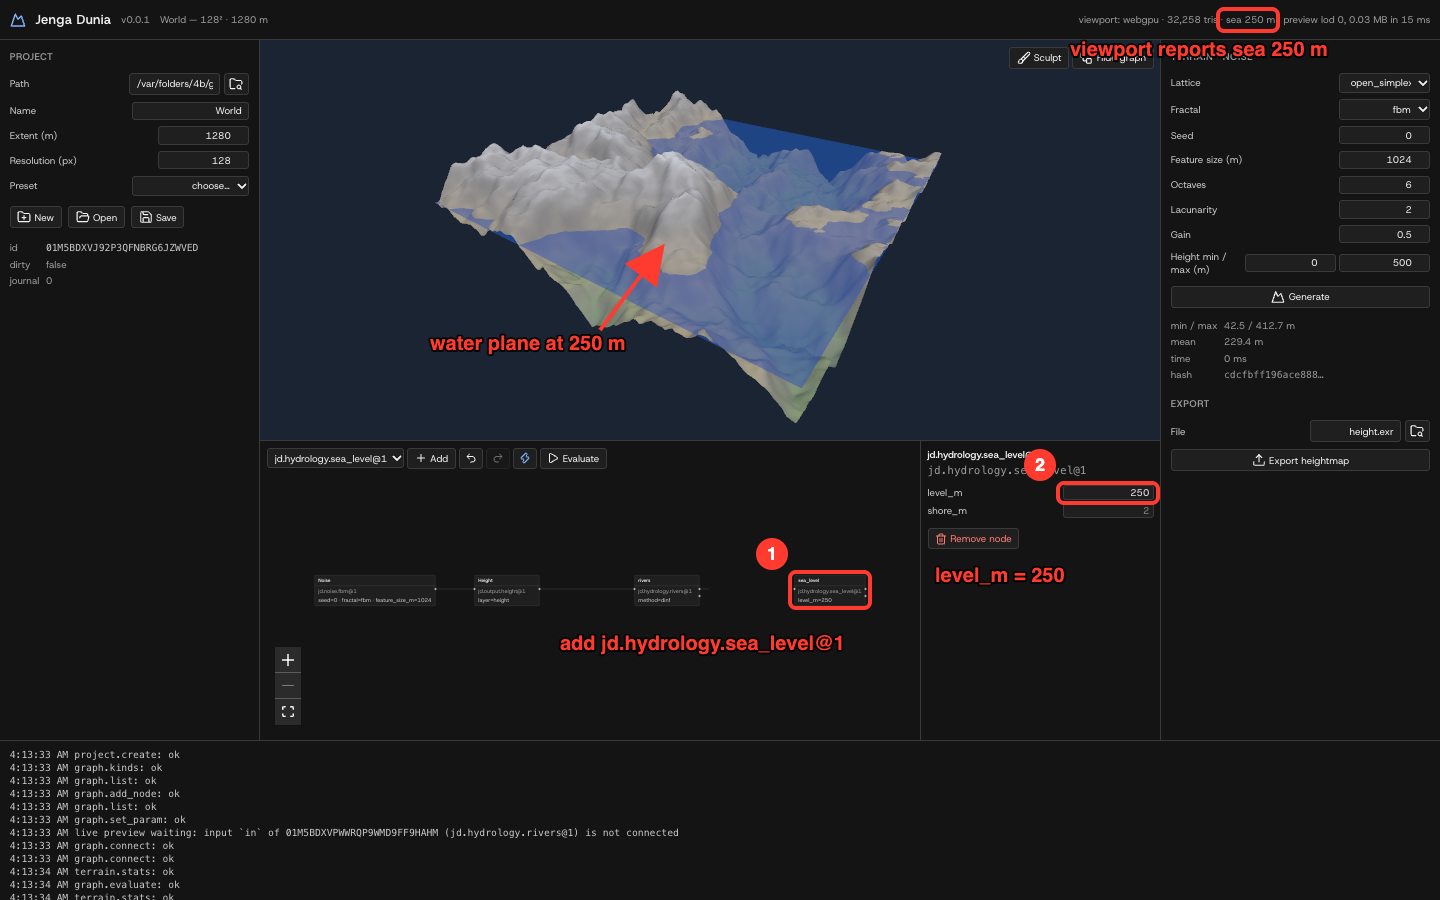
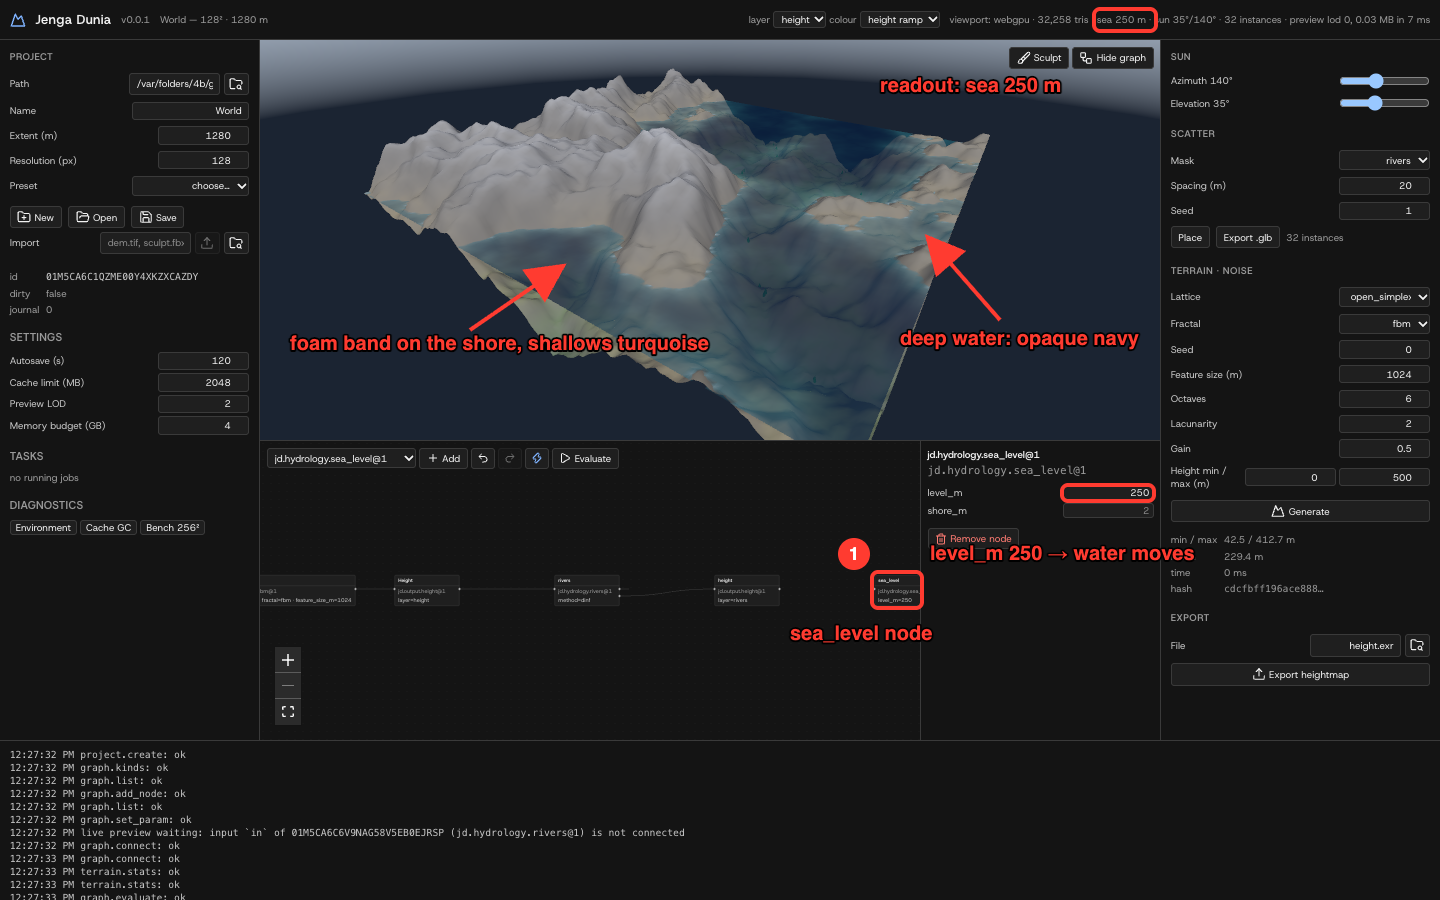
feat(desktop): depth-shaded sea with shoreline foam
- buildSeaGeometry: a flat grid at sea level whose RGBA vertex colours follow
  the depth of the terrain below — foam band within ~1 % of the height range of
  the shore, turquoise shallows darkening to opaque navy (e-fold 12 % of range),
  alpha 0 over land. MeshStandardMaterial with vertex colours, no custom shader.
- Vitest sea.test.ts; hydrology e2e zooms back out before the sea capture;
  desktop guide paragraph and capture updated.

diff --git a/apps/desktop/src/viewport/TerrainView.tsx b/apps/desktop/src/viewport/TerrainView.tsx
@@ -128,6 +128,50 @@ export function buildTerrainGeometry(p: Preview, extent: [number, number], overl
   return geo;
 }
 
+/** Water surface at `seaM`: a flat grid whose vertex colour and alpha follow the depth of the terrain
+ *  below it — turquoise and translucent in the shallows, navy and opaque out deep, a pale foam band
+ *  where the depth is within `foamM` of the shore, fully transparent over land. */
+export function buildSeaGeometry(p: Preview, extent: [number, number], seaM: number): THREE.BufferGeometry {
+  const { width, height, min, max, data } = p;
+  const geo = new THREE.PlaneGeometry(extent[0], extent[1], width - 1, height - 1);
+  geo.rotateX(-Math.PI / 2);
+  const pos = geo.attributes.position as THREE.BufferAttribute;
+  const colors = new Float32Array(pos.count * 4);
+  const range = max - min || 1;
+  const efold = Math.max(1, range * 0.12); // depth at which the water has gone ~63 % of the way to deep
+  const foamM = Math.max(0.5, range * 0.01);
+  const shallow = new THREE.Color(0x4fb8c8);
+  const deep = new THREE.Color(0x0e2f5c);
+  const foam = new THREE.Color(0xdff3f5);
+  const c = new THREE.Color();
+  for (let j = 0; j < height; j++) {
+    for (let i = 0; i < width; i++) {
+      const vi = j * width + i;
+      const q = data[(height - 1 - j) * width + i] ?? 0;
+      const depth = seaM - (min + (q / 65535) * range);
+      let alpha = 0;
+      if (depth > 0) {
+        const t = 1 - Math.exp(-depth / efold);
+        c.copy(shallow).lerp(deep, t);
+        alpha = 0.45 + 0.4 * t;
+        if (depth < foamM) {
+          const f = 1 - depth / foamM;
+          c.lerp(foam, f);
+          alpha = Math.max(alpha, 0.5 + 0.45 * f);
+        }
+      } else {
+        c.copy(shallow);
+      }
+      colors[vi * 4] = c.r;
+      colors[vi * 4 + 1] = c.g;
+      colors[vi * 4 + 2] = c.b;
+      colors[vi * 4 + 3] = alpha;
+    }
+  }
+  geo.setAttribute("color", new THREE.BufferAttribute(colors, 4));
+  return geo;
+}
+
 interface SceneState {
   renderer: WebGPURenderer;
   scene: THREE.Scene;
@@ -138,7 +182,7 @@ interface SceneState {
   frame: number;
   backend: ViewportInfo["backend"];
   triangles: number;
-  sea: THREE.Mesh<THREE.PlaneGeometry, THREE.MeshStandardMaterial> | null;
+  sea: THREE.Mesh<THREE.BufferGeometry, THREE.MeshStandardMaterial> | null;
   sun: THREE.DirectionalLight;
   hemi: THREE.HemisphereLight;
   /** Gradient sky dome (vertex colours, inside faces). */
@@ -412,7 +456,8 @@ export default function TerrainView({ preview, extentM, onInfo, sculpt, seaLevel
     onInfo?.(infoOf(s));
   }, [sun?.azimuthDeg, sun?.elevationDeg, onInfo]);
 
-  // Sea plane: follows the graph's sea-level node; a flat translucent quad over the whole world.
+  // Sea: follows the graph's sea-level node; a flat surface whose colour and opacity follow the
+  // depth of the terrain under it (shoreline foam, translucent shallows, opaque deep water).
   useEffect(() => {
     const s = sceneRef.current;
     if (!s) return;
@@ -423,9 +468,8 @@ export default function TerrainView({ preview, extentM, onInfo, sculpt, seaLevel
       s.sea = null;
     }
     if (seaLevelM !== null && extentM && preview) {
-      const geo = new THREE.PlaneGeometry(extentM[0], extentM[1]);
-      geo.rotateX(-Math.PI / 2);
-      const mat = new THREE.MeshStandardMaterial({ color: 0x2f6fd0, transparent: true, opacity: 0.6, roughness: 0.25, metalness: 0.1 });
+      const geo = buildSeaGeometry(preview, extentM, seaLevelM);
+      const mat = new THREE.MeshStandardMaterial({ vertexColors: true, transparent: true, roughness: 0.2, metalness: 0.05, depthWrite: false });
       s.sea = new THREE.Mesh(geo, mat);
       s.sea.position.y = seaLevelM;
       s.scene.add(s.sea);

diff --git a/apps/desktop/src/viewport/sea.test.ts b/apps/desktop/src/viewport/sea.test.ts
@@ -1,0 +1,33 @@
+import { describe, expect, it } from "vitest";
+import { buildSeaGeometry } from "./TerrainView";
+import type { Preview } from "../lib/api";
+
+// A 4×4 preview sloping west → east from 0 to 300 m (u16 quantised over min..max).
+function ramp(): Preview {
+  const width = 4;
+  const height = 4;
+  const data = new Uint16Array(width * height);
+  for (let j = 0; j < height; j++) for (let i = 0; i < width; i++) data[j * width + i] = Math.round((i / 3) * 65535);
+  return { width, height, min: 0, max: 300, data };
+}
+
+describe("buildSeaGeometry", () => {
+  it("is transparent over land, foamy at the shore and opaque out deep", () => {
+    const geo = buildSeaGeometry(ramp(), [300, 300], 150);
+    const color = geo.getAttribute("color");
+    expect(color.itemSize).toBe(4);
+    // Column 0 (height 0) is 150 m under water: deep, mostly opaque, navy rather than turquoise.
+    expect(color.getW(0)).toBeGreaterThan(0.75);
+    expect(color.getZ(0)).toBeGreaterThan(color.getX(0));
+    // Column 3 (height 300) is land: fully transparent.
+    expect(color.getW(3)).toBe(0);
+    // Column 1 (height 100, depth 50 m) is shallower than column 0: lighter and less opaque.
+    expect(color.getW(1)).toBeLessThan(color.getW(0));
+    expect(color.getX(1)).toBeGreaterThan(color.getX(0));
+    // A sea level just above a vertex puts that vertex in the foam band: pale and opaque.
+    const foam = buildSeaGeometry(ramp(), [300, 300], 100.5).getAttribute("color");
+    // Colours are linear-light (three.js converts the hex constants), so foam red ≈ 0.63, shallow ≈ 0.08.
+    expect(foam.getX(1)).toBeGreaterThan(0.5);
+    expect(foam.getW(1)).toBeGreaterThan(0.8); // 0.5 + 0.45 · (1 − 0.5 m / 3 m) = 0.875
+  });
+});

diff --git a/apps/desktop/e2e/hydrology.spec.ts b/apps/desktop/e2e/hydrology.spec.ts
@@ -106,6 +106,9 @@ test.describe("hydrology nodes against the real core", () => {
     await level.blur();
     await expect(page.getByTestId("log")).toContainText("graph.set_param: ok");
     await expect(page.getByTestId("viewport-info")).toContainText("sea 250 m");
+    // Back out to the overview (undo the two zoom steps above) so the whole shoreline is in frame.
+    await page.getByTestId("viewport").hover();
+    for (let i = 0; i < 2; i++) await page.mouse.wheel(0, 300);
     await page.screenshot({ path: testInfo.outputPath("hydrology-sea.png") }); // tutorial image source
 
     // Autosave (interval overridden to 2 s here): after the last edit the project is saved — journal truncated, documents current.

diff --git a/memory/handover_session.md b/memory/handover_session.md
@@ -198,11 +198,13 @@ Append-only log. Newest entry first. Timestamps are local (Africa/Nairobi, UTC+3
 
 - `14:00:00` **Desktop import**: store `importAsset(path)` = `project.import_asset` + `graph.add_node(jd.input.heightmap@1, {path: name})`; Project panel **Import** row (typed path + Upload button, Browse → native dialog filtered to png/exr/tif/tiff/r16/r32/fbx); File ▸ Import Heightmap or Mesh… (⌘I). `wire()` moved to `e2e/bridge.ts`. Terrain e2e: export EXR → import → node `path=h.exr` → wire to height → evaluate → min/max/mean equal (time/hash lines excluded). Capture `desktop-import.png`.
 
-### Open / next (as of 2026-10-20 14:00, head after desktop-import commit)
+- `14:25:00` **Sea shading**: `buildSeaGeometry(preview, extent, seaM)` — flat grid at sea level, RGBA vertex colours from the depth of the terrain below (foam band < 1 % of range, shallow turquoise → deep navy with e-fold 12 % of range, alpha 0.45 → 0.85, land alpha 0), `MeshStandardMaterial{vertexColors, transparent, depthWrite:false}`. Vitest `sea.test.ts`; hydrology e2e zooms back out before the sea capture; `desktop-sea-level.png` re-captured.
+
+### Open / next (as of 2026-10-20 14:25, head after sea-shading commit)
 1. **CI**: green through `43fab8e` (normal maps); the only red run was `dad6256` (priorities; fixed by `d84eaa9`). FBX-reader commit next.
 2. **Figma**: connector unavailable this session; plugin OAuth pending on the owner's side → tutorial images stay in `docs/user/images/`; place them in file `fxyeV62hgLoNmG3dU1LX6G` when a connector works.
 3. **Native leftovers**: Edit-menu capture; native sculpt capture/recording (needs Accessibility); signed/notarised bundle (needs an Apple developer account).
-4. **Phase 3 follow-ups**: hydraulic concentration cap / layered materials / open drains; thermal + hydraulic WGSL twins (`jd-gpu`); particle hydraulic; D∞ ✔, MFD ✔ (`wetness` still D8-only); sea level ✔ (viewport water plane ✔; ocean shading/shoreline foam ☐); hydrology-first generation; smooth-brush blur done via summed-area table (whole-field blur is now O(N); tile-level dirty sets remain).
+4. **Phase 3 follow-ups**: hydraulic concentration cap / layered materials / open drains; thermal + hydraulic WGSL twins (`jd-gpu`); particle hydraulic; D∞ ✔, MFD ✔ (`wetness` still D8-only); sea level ✔ (viewport water depth-shaded + shoreline foam ✔); hydrology-first generation; smooth-brush blur done via summed-area table (whole-field blur is now O(N); tile-level dirty sets remain).
 5. **Phase 2 leftovers**: jobs scheduler complete (detached execution, queue slots, timeouts, memory budget, priorities ✔), CRS-aware GeoTIFF import (`jd-geo`; tags/nodata ✔), normal/roughness maps for GLB ✔, Windows/Linux measurements, tile-level `jd-cache` (LRU ✔).
 6. **Docs**: hydrology recipe ✔, `desktop-rivers.png` ✔; rivers inspector `method` capture ✔ (e2e); a *native* capture of the same needs the app rebuilt from this head.
 

diff --git a/docs/user/desktop-app.md b/docs/user/desktop-app.md
@@ -125,13 +125,13 @@ Undo and redo are operations like everything else (`graph.undo` / `graph.redo`, 
 
 *Inside the app: pick `jd.hydrology.rivers@1` in the kinds dropdown and **Add** (1), click the node (2) and the schema-driven inspector shows its parameters; `method` is a select built from the node's schema — switch it from `d8` to `dinf` (3) and the node label updates (`method=dinf`) after the core journals `graph.set_param`. `jd.hydrology.sea_level@1` adds the same way and exposes two output handles, `ocean` and `depth`. Numbers that come from the core as 32-bit floats are shown rounded (`0.55`, not `0.550000011920929`). Captured by the UI-driven test `apps/desktop/e2e/hydrology.spec.ts`.*
 
-![Viewport with a translucent water plane at 250 m cutting through the terrain; sea_level node selected](images/desktop-sea-level.png)
+![Viewport with depth-shaded water at 250 m: pale foam along the shore, turquoise shallows, navy deep water; sea_level node selected](images/desktop-sea-level.png)
 
 ![Inspector with the biome rules table: one row named scree with a slope range, add-row button](images/desktop-biome-rules.png)
 
 *Rules as a table: for parameters that are lists of records (biome rules) the inspector shows a table — **+ row** adds a rule, each cell applies on blur (`min,max` for ranges, empty for "no constraint"), the bin removes a row. Every edit is one journaled `graph.set_param`; a value the core refuses (an inverted range) is reported in the log before anything is journaled and the table keeps the last good value. Recorded brush strokes stay a count — they are data, not something to type. UI-driven test: `apps/desktop/e2e/biomes.spec.ts`.*
 
-*Sea in the viewport: as soon as the graph contains a `jd.hydrology.sea_level@1` node (1) the viewport draws a translucent water plane at its `level_m` — edit the value (2) and the plane moves with it; the header's viewport line reports the height (boxed, top right). The plane is only drawn while the **height** layer is shown (masks like `ocean` or `rivers` are 0..1 and would hide under it). Same e2e test.*
+*Sea in the viewport: as soon as the graph contains a `jd.hydrology.sea_level@1` node (1) the viewport draws water at its `level_m` — edit the value (2) and it moves with it; the header's viewport line reports the height (boxed, top right). The surface is shaded by the depth of the terrain under each vertex: a pale foam band within ~1 % of the height range of the shore, translucent turquoise shallows darkening to opaque navy with an e-folding depth of 12 % of the height range, and nothing drawn over land (alpha 0), so the shoreline reads without a custom shader (`buildSeaGeometry`, unit-tested). Water is only drawn while the **height** layer is shown (masks like `ocean` or `rivers` are 0..1 and would hide under it). Same e2e test.*
 
 ## Tutorial: sculpting
 
